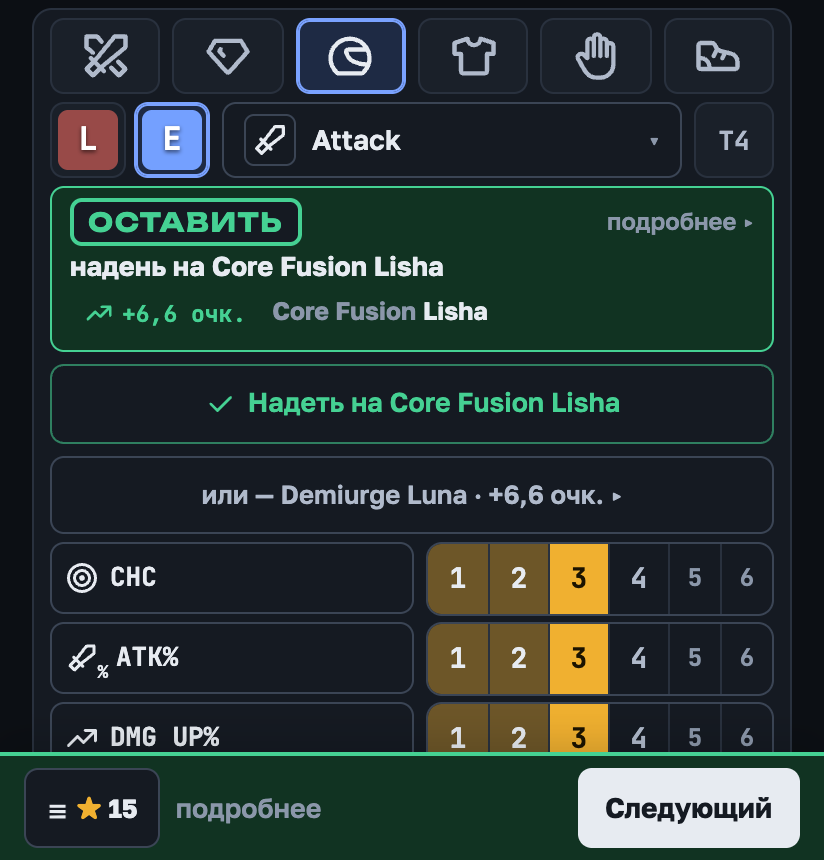
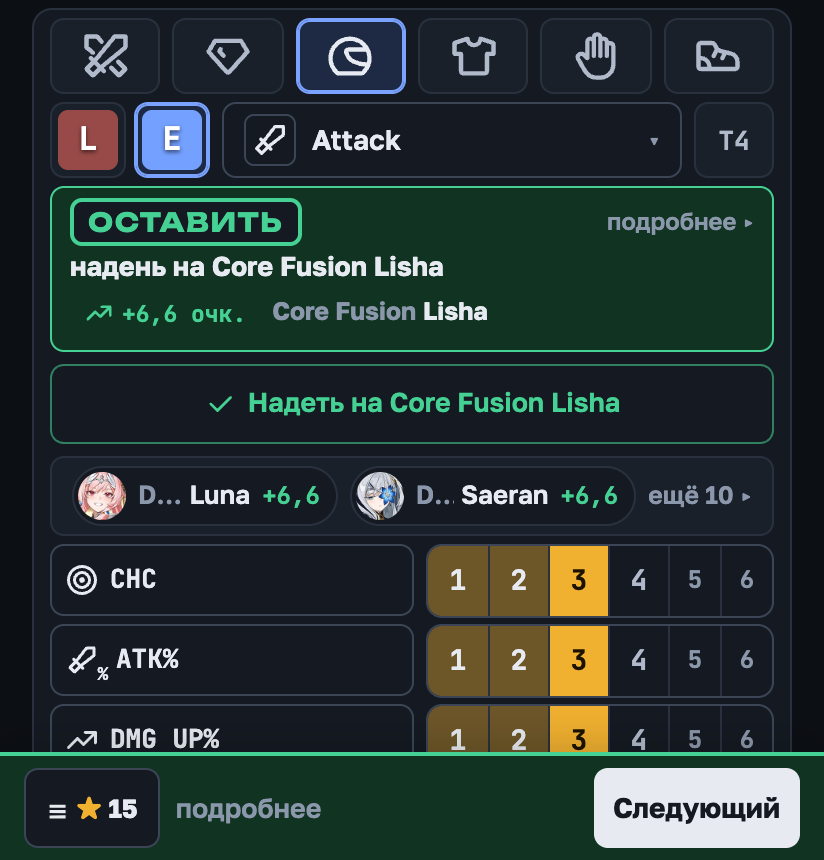
Help and Wiki: the hero list and «Надеть в игре» (0230)
In-app Help and Wiki (Экипировка / Equipment, Как считается вердикт /
How verdicts work) describe the list under the stamp («Кому даст») and
«Надеть в игре» instead of «Сейчас на персонажах», «Надеть на…», «Кому
надеть?» and the quiet line. Owner-approved texts (HELP-DRAFT.md).
Screenshots regenerated.

Tour: not needed — Help and Wiki texts only.

Changed region(s): [[0.0607, 0.5442, 0.9405, 0.8767], [0.5158, 0.6651, 0.9405, 0.9977]]

diff --git a/src/i18n/ru.ts b/src/i18n/ru.ts
@@ -712,15 +712,15 @@ export const ru = {
     helpChars: [
       'Серая звёздочка ☆ добавляет персонажа в ростер, золотая ★ — он уже там; с галочкой «только мои персонажи» («Ещё» → «Настройки») оценка учитывает только их. Список показывает «Мои» (все твои, с билдами и без), «Доодеть» (твои, у кого надето меньше 6 из 6); ничего не нажато — все с билдами (героя без билдов найдёшь по имени), повторное нажатие снимает выбор; стихия и класс — под кнопкой фильтра, выбранные видны чипами над списком. «Ещё» → «Резервная копия» — ростер и вещи одним кодом, для переноса на другое устройство; «Заменить» понимает и прежние коды ростера и экипировки. Вещи бывают только у персонажей ростера: «Надеть» добавляет в ростер, загрузка копии — всех, у кого есть вещи; убрать из ростера — в карточке персонажа: звёзды у имени → «Убрать из ростера»; если у него есть вещи, приложение спросит, убрать ли их. Без вещей он уходит сразу, а с ним — его звёзды, число крита, эфф из игры, уровень и закреплённый набор; «Вернуть» в сообщении вернёт всё. Core Fusion заменяет героя: отметишь Core Fusion Eternal — вещи Eternal перейдут к Core Fusion Eternal, а Eternal станет неактивным (в списке пара на прежнем месте: Core Fusion Eternal сразу за Eternal); звезда на Eternal вернёт всё назад.',
       'Нажми на персонажа — откроется его карточка. Звёздочка есть и в карточке, рядом с именем; стихия и класс — значками на портрете, «outerpedia ↗» открывает страницу персонажа на outerpedia. Три вкладки: «Надето» — что на нём в игре; «Пул» — остальные его вещи и зачем каждая; «Билды» — справка outerpedia, только посмотреть.',
-      '**Экипировка** — вещи у персонажа. Оценка сама берёт из них лучшее: статы и сеты из билдов outerpedia считаются вместе, билд выбирать не нужно. Вещь к персонажу кладёт «Надеть» — в подробностях вердикта, на телефоне ещё и кнопка под карточкой: вещь записывается надетой в своём слоте. Вердикт предлагает её тем, кому она даст больше всего очков. Другого героя найди по имени в «Надеть на…» или нажми «Оценить вещь для Caren»: там «Надеть» есть у любой вещи, чтобы записать, что носит герой. «Надеть» убирает из вещей героя то, что ему больше не нужно, и говорит об этом. «Отложить для Caren» — записать вещь герою, не надевая: она остаётся в «Пуле» и участвует в следующих оценках. «Припаркована» в «Пуле» — вещь, снятая в обмене, которую пока некому надеть: обмен предложит её первой. Ввёл отложенную вещь ещё раз (те же статы в том же порядке) — вердикт скажет «Похоже, это …» и не даст другим ни «Надеть», ни «Отложить»; в игре таких две — «Это другой». Вещь персонажа правится только в сегментах, «T4» и 4-м сабстате у Epic: сделал Reforge или Breakthrough — нажми её на «Надето» или в «Пуле» и поправь. Transistone сменил стат — введи вещь заново и «Надеть», а эту — «Убрать у Caren». Enhance не отмечается: считаем, что вещь на +10. Бонус сета — по Breakthrough вещей: ×2 на T4, если хотя бы две вещи сета на T4; ×4 на T4 — если все четыре. Разобрал вещь или пустил на Breakthrough — «Убрать у Caren» в карточке вещи. Кого доодеть — «Доодеть» над списком (на телефоне ещё «Ещё» → «Доодеть · N»). «Поделиться» во вкладке «Надето» даёт ссылку: друг увидит, что на герое надето и какой набор закреплён, — только просмотр, у него ничего не изменится. Во время обучения резервной копии нет: на странице пример.',
+      '**Экипировка** — вещи у персонажа. Оценка сама берёт из них лучшее: статы и сеты из билдов outerpedia считаются вместе, билд выбирать не нужно. Вещь к персонажу кладёт «Надеть» — в списке героев под штампом, на телефоне ещё и кнопка под карточкой: вещь записывается надетой в своём слоте и попадает в «Надеть в игре» — в игре её надеваешь потом, а здесь отмечаешь, что сделал. Список показывает всех, кого вещь усилит хотя бы на 1 очко. Другого героя найди по имени под списком или нажми «Оценить вещь для Caren»: там «Надеть» есть у любой вещи, чтобы записать, что носит герой. «Надеть» убирает из вещей героя то, что ему больше не нужно, и говорит об этом. «Отложить для Caren» — записать вещь герою, не надевая: она остаётся в «Пуле» и участвует в следующих оценках. «Припаркована» в «Пуле» — вещь, снятая в обмене, которую пока некому надеть: обмен предложит её первой. Ввёл отложенную вещь ещё раз (те же статы в том же порядке) — вердикт скажет «Похоже, это …» и не даст другим ни «Надеть», ни «Отложить»; в игре таких две — «Это другой». Вещь персонажа правится только в сегментах, «T4» и 4-м сабстате у Epic: сделал Reforge или Breakthrough — нажми её на «Надето» или в «Пуле» и поправь. Transistone сменил стат — введи вещь заново и «Надеть», а эту — «Убрать у Caren». Enhance не отмечается: считаем, что вещь на +10. Бонус сета — по Breakthrough вещей: ×2 на T4, если хотя бы две вещи сета на T4; ×4 на T4 — если все четыре. Разобрал вещь или пустил на Breakthrough — «Убрать у Caren» в карточке вещи. Кого доодеть — «Доодеть» над списком (на телефоне ещё «Ещё» → «Доодеть · N»). «Поделиться» во вкладке «Надето» даёт ссылку: друг увидит, что на герое надето и какой набор закреплён, — только просмотр, у него ничего не изменится. Во время обучения резервной копии нет: на странице пример.',
       '**Надето** — рядом с заголовком очки надетого: вещи плюс сеты; у каждой вещи — её очки. Нажми на заголовок ▾ — откуда они: статы по слотам, сеты и пассивка оружия и аксессуара («рекомендовано», «временно», «нет в билдах»; пассивка — не очки: рекомендованное оружие встаёт раньше любых сабстатов). Под заголовком — цепочка статов героя в её порядке (первый — самый ценный) и сколько сегментов каждому стату дают надетые вещи: зелёный засчитан целиком, жёлтый (flat) — наполовину, бледнее — меньше сегментов, пунктир — ни одна вещь стат не даёт. У героя с двумя цепочками (разные билды) — обе, с именем билда; очки — по первой. Ниже каждый сет стоит отдельной строкой: справа — сколько он добавляет (очки его бонуса сверх очков вещей), под ним — его бонусы; если Breakthrough T4 у надетой брони добавит от 1 очка бонуса сета, бледная строка скажет, у каких вещей.',
       '**Крит: 45%** — под цепочкой у героев с CHC в цепочке: шанс крита героя с надетым — его свои 5% (+5% у Striker, +10% от Quirks, крит от звёзд) плюс вещи: main CHC аксессуара, сабстаты CHC, сет Critical Hit. Выше 100% крит в игре сгорает, поэтому ближе к числу героя (по умолчанию 100) он ценится меньше, а выше — не ценится вовсе; строка жёлтая с N − 15, красная с N. Нажми — шкала, «Герой · звёзды · вещи» и число: понизь его, если крит дают камни, талисман или команда. Так считают вердикт, «Отложить», «Переодеть», партия и обмен; в раскрытом заголовке — «Лишний крит −x».',
       '**Эфф** — у героев, которым нужен эфф против RES босса (дебаффы, которые босс может отразить). «≈» — оценка: приложение считает героя (уровень — героя, у звёзд, или по умолчанию; Ranger +50 — по Quirks), вещи и звёзды, но не видит EE, талисман и камни. Нажми строку и впиши эфф с экрана героя в игре — дальше приложение держит его само, а после смены вещей снова ставит «≈».',
       '**★★★★★☆ у имени** — звёзды героя, как в игре (плюсы не нужны); там же — «Убрать из ростера». Некоторым героям звёзды дают крит — он входит в «Крит» (Poolside Trickster Regina с ★5: +65%). Пока не указаны — у героя его начальные звёзды (★1–★3, как в игре); меньше поставить нельзя. «Команда» берёт звёзды отсюда; там можно только примерить больше. С Core Fusion звёзды переходят вместе с вещами. Там же — уровень героя, 100 или 120: от него зависят база для сравнения flat и %, бонусы сетов и эфф. Не отмечен — берётся «Уровень по умолчанию» из настроек.',
       '**Пул и «Переодеть»** — «Пул» показывает вещи героя, кроме надетых (они — на «Надето»), и справа причину, почему вещь держится: «лучший {сет}» (в том числе «на T4»; только у закреплённого набора), «по статам», «в запасе»; остальное — «больше не нужна»: разбери в игре и убери кнопкой «Убрать у Caren» (молча приложение ничего не удаляет). На «Надето» кнопка «Переодеть: +N очк.» появляется, когда из своих вещей героя можно собрать на 1+ очко лучше надетого; Legendary на место Epic — уже при равных очках (или с рекомендованным оружием или аксессуаром — «Переодеть: пассивка лучше»): шторка покажет итог, что включится и выключится, и «Надеть» у каждой вещи или «Надеть все». Под слотами — «Что искать»: наборы из билдов, где у героя 1–3 вещи из 4, каких слотов не хватает и сколько очков стоит собрать набор (набор, который ничего не добавит или обойдётся дороже надетого, не показывается; набор закреплённого героя остаётся). В игре всё делаешь сам — приложение только считает.',
       '**Закрепить набор** — по умолчанию герой оценивается «По статам»: цепочка его билдов и все наборы из них вместе. Нужен конкретный набор — «Закрепить набор» в карточке: вещи других сетов с хорошими статами будут отбрасываться (надетое остаётся, пока слот не займёт вещь набора). Сменить или снять — та же кнопка, «По статам — не закреплять».',
-      '**Оценить вещь для Caren** — в карточке персонажа: над формой «Только для · Caren». Строка карточки, «Сейчас на персонажах» и «Надеть» — только про Caren; «Надеть» есть и у вещи без пользы — записать, что носит герой; штамп — общий. «Следующий» режим не сбрасывает, ✕ — снова для всех. «Ввести» у пустого слота ставит на форму слот, «Примерить замену» у вещи — слот и сет вещи; «Заменить» уберёт именно её, лучше новая или хуже.',
-      '**Сейчас на персонажах** — в подробностях вердикта, строка на героя ростера, кому вещь даст больше всего: «+N очк.» — на сколько он станет сильнее с ней, «включится / выключится» — бонусы сетов. «Заменить» вместо «Надеть» — в слоте уже есть вещь. Штамп говорит про саму вещь. Слабая вещь, которая лучше надетой, остаётся «Фоддер» или «Разобрать» — тихая строка скажет, кому она дала бы больше и что искать. Резервная копия — код OGC-GEAR9 в «Ещё» → «Резервная копия»: вещи, надетое, припаркованное, закреплённые наборы, число крита, эфф из игры, звёзды и уровень героя; прежние коды читаются.',
+      '**Оценить вещь для Caren** — в карточке персонажа: над формой «Только для · Caren». Строка карточки, список героев и «Надеть» — только про Caren; «Надеть» есть и у вещи без пользы — записать, что носит герой; штамп — общий. «Следующий» режим не сбрасывает, ✕ — снова для всех. «Ввести» у пустого слота ставит на форму слот, «Примерить замену» у вещи — слот и сет вещи; «Заменить» уберёт именно её, лучше новая или хуже.',
+      '**Кому даст** — список под штампом (на телефоне — строка героев под карточкой, нажми — откроется весь список): все, кого вещь усилит хотя бы на 1 очко. «Вместо надетого» — в слоте уже есть вещь («Заменить», «вместо N очк.»), «В пустой слот» — «Надеть», «Отложить» — «держи» или «запас». В группе три строки, остальных открывает «ещё N». ★ — кого советует вердикт. «+N» — на сколько герой станет сильнее, «включит / выключит» — бонусы сетов. «Подробно» (на компьютере) — что вещь даёт и что было. Штамп говорит про саму вещь. **Надеть в игре** — что записано «Надеть» и ещё не надето в игре, по героям: слот, вещь и её сабстаты как в игре, а под ними — что сделать со снятым («под замок», «в Breakthrough»). Надел — нажми строку, она уйдёт («Вернуть» рядом); на компьютере список под формой, на телефоне — «Ещё» → «Надеть в игре», счётчик на ☰. Резервная копия — код OGC-GEAR9 в «Ещё» → «Резервная копия»: вещи, надетое, припаркованное, закреплённые наборы, число крита, эфф из игры, звёзды и уровень героя; прежние коды читаются.',
     ],
     helpTrade: 'Обмен вещами',
     helpTradeItems: [

diff --git a/src/i18n/en.ts b/src/i18n/en.ts
@@ -607,15 +607,15 @@ export const en: Texts = {
     helpChars: [
       'The grey star ☆ adds a character to your roster, the gold ★ means they’re already in it; with "only my characters" checked (More → Settings), the evaluation considers only them. The list shows "Mine" (all yours, with builds and without), "To dress" (yours with fewer than 6 of 6 equipped); with neither pressed — everyone with builds (a hero without builds is found by name), pressing again unpresses; element and class are under the filter button, the chosen ones show as chips above the list. More → Backup is the roster and gear in one code, to move to another device; "Replace" also reads the older roster and gear codes. Only roster characters have gear: "Equip" adds a character to the roster, loading a backup adds everyone who has gear, and to remove someone from the roster open their card: the stars by the name → "Remove from roster"; if they have gear, the app asks whether to remove it. Without gear they leave at once, and with them the hero’s stars, crit number, in-game EFF, level and pinned set; "Undo" in the message brings them all back. Core Fusion replaces the hero: star Core Fusion Eternal and Eternal\'s gear moves to Core Fusion Eternal, while Eternal turns inactive (the pair keeps its place in the list: Core Fusion Eternal right after Eternal); the star on Eternal switches back.',
       'Tap a character to open their card. The star is on the card too, next to the name; element and class are icons on the portrait, and "outerpedia ↗" opens the character\'s page on outerpedia. Three tabs: "Worn" — what they wear in the game; "Pool" — the rest of their pieces and why each is kept; "Builds" — the outerpedia reference, view only.',
-      '**Equipment** — pieces kept for a character. The evaluation picks the best of them itself: stats and the sets from outerpedia builds count together, no build to pick. A piece reaches a character with "Equip" — in the verdict details, on a phone also the button under the card: the piece is recorded as worn in its slot. A verdict offers it to those who gain the most points. For another hero search by name in "Equip on…" or tap "Rate a piece for Caren": there "Equip" is on every piece, to record what the hero wears. "Equip" removes from the hero\'s gear what they no longer need, and says so. "Set aside for Caren" records a piece for the hero without wearing it: it stays in the Pool and counts in later evaluations. "Parked" in the Pool — a piece taken off in a trade that nobody can wear yet: a trade offers it first. Rated a set-aside piece again (same stats in the same order)? The verdict says "Looks like the …" and offers no "Equip" or "Set aside" to anyone else; two such pieces in the game — "It\'s a different one". A character\'s piece can be edited only in segments, "T4" and an Epic\'s 4th substat: did a Reforge or Breakthrough? Tap it on Worn or in the Pool and fix it. Transistone changed a stat? Enter the piece again and "Equip", and "Remove from Caren" this one. Enhance isn\'t tracked: pieces are assumed to be +10. Set bonuses follow the pieces\' Breakthrough: ×2 at T4 when at least two pieces of the set are T4; ×4 at T4 when all four are. Dismantled a piece or used it for Breakthrough? "Remove from Caren" on the piece card. Who still needs gear — "To dress" above the list (on a phone also More → "To dress · N"). "Share" on the Worn tab gives a link: a friend sees what the hero wears and which set is pinned — view only, nothing changes on their side. During a tutorial there\'s no backup: the page shows an example.',
+      '**Equipment** — pieces kept for a character. The evaluation picks the best of them itself: stats and the sets from outerpedia builds count together, no build to pick. A piece reaches a character with "Equip" — in the hero list under the stamp, on a phone also the button under the card: the piece is recorded as worn in its slot and added to "Equip in game" — you put it on in the game later, and tick it off here. The list shows everyone the piece makes at least 1 point stronger. For another hero search by name under the list or tap "Rate a piece for Caren": there "Equip" is on every piece, to record what the hero wears. "Equip" removes from the hero\'s gear what they no longer need, and says so. "Set aside for Caren" records a piece for the hero without wearing it: it stays in the Pool and counts in later evaluations. "Parked" in the Pool — a piece taken off in a trade that nobody can wear yet: a trade offers it first. Rated a set-aside piece again (same stats in the same order)? The verdict says "Looks like the …" and offers no "Equip" or "Set aside" to anyone else; two such pieces in the game — "It\'s a different one". A character\'s piece can be edited only in segments, "T4" and an Epic\'s 4th substat: did a Reforge or Breakthrough? Tap it on Worn or in the Pool and fix it. Transistone changed a stat? Enter the piece again and "Equip", and "Remove from Caren" this one. Enhance isn\'t tracked: pieces are assumed to be +10. Set bonuses follow the pieces\' Breakthrough: ×2 at T4 when at least two pieces of the set are T4; ×4 at T4 when all four are. Dismantled a piece or used it for Breakthrough? "Remove from Caren" on the piece card. Who still needs gear — "To dress" above the list (on a phone also More → "To dress · N"). "Share" on the Worn tab gives a link: a friend sees what the hero wears and which set is pinned — view only, nothing changes on their side. During a tutorial there\'s no backup: the page shows an example.',
       '**Worn** — next to the heading, the points of what is worn: pieces plus sets; each piece shows its points. Tap the heading ▾ — where they come from: stats per slot, sets, and the weapon and accessory passive ("recommended", "stopgap", "not in builds"; the passive isn\'t in points: a recommended weapon goes in before any substats). Under the heading, the hero\'s stat chain in its order (first — the most valuable) and how many segments the worn pieces give each stat: green counts in full, yellow (flat) at half, paler — fewer segments, dashed — no piece gives the stat. A hero with two chains (different builds) shows both, named by build; points follow the first. Below, each set stands on its own line with what it adds on the right (the points of its bonus on top of the pieces\') and its bonuses under it; when Breakthrough T4 on worn armor would add 1+ points of set bonus, a faint line says on which pieces.',
       '**Crit: 45%** — under the chain for heroes with CHC in it: the hero\'s crit chance with what\'s worn — their own 5% (+5% for Strikers, +10% from Quirks, crit from stars) plus gear: the accessory\'s CHC main, CHC substats, the Critical Hit set. Above 100% the game wastes crit, so near the hero\'s number (100 by default) it counts less, above it not at all; the line turns amber from N − 15 and red from N. Tap it — the bar, "Hero · stars · gear" and the number: lower it if gems, the talisman or the team add crit. The verdict, "Set aside", "Re-dress", the batch and trade count it this way; the opened heading shows "Extra crit −x".',
       '**EFF** — for heroes who need EFF against a boss’s RES (debuffs the boss can resist). «≈» = estimate: the app counts the hero (the hero’s level, by the stars, or the default; Ranger +50 by Quirks), gear and stars, but can’t see the EE, talisman or gems. Tap the line and type EFF from the hero’s screen in the game — the app keeps it from then on and shows «≈» again after a gear change.',
       '**★★★★★☆ by the name** — the hero’s stars, as in the game (no pluses needed); "Remove from roster" is there too. Stars give some heroes crit — it counts in Crit (Poolside Trickster Regina at ★5: +65%). Until you set them, the hero has their starting stars (★1–★3, as in the game); fewer can’t be picked. Team takes the stars from here; there you can only try more. With Core Fusion the stars move along with the pieces. The hero’s level is there too, 100 or 120: it sets the base for flat vs %, set bonuses and EFF. Not marked — the "Default level" from the settings.',
       '**Pool and "Re-dress"** — the Pool lists the hero\'s pieces except the worn ones (those are on Worn) with the reason each is kept: "best {set}" (also "at T4"; only for a pinned set), "by stats", "reserve"; everything else is "no longer needed": dismantle it in the game and remove it with "Remove from Caren" (the app never deletes silently). On Worn, the "Re-dress: +N pts" button appears when the hero\'s own pieces can make a layout 1+ point better than what\'s worn; a Legendary in place of an Epic — already at equal points (or with a recommended weapon or accessory — "Re-dress: better passive"): the sheet shows the result, what turns on and off, and "Wear" per piece or "Wear all N". Under the slots — "What to look for": sets from the builds where the hero has 1–3 of 4 pieces, which slots are missing and what completing the set is worth in points (a set that would add nothing, or cost the one already worn, isn\'t listed; a pinned hero\'s set stays). In the game you do it yourself — the app only calculates.',
       '**Pin a set** — by default a hero is evaluated "By stats": the chain of their builds and all the sets from them together. Need a specific set? "Pin a set" on the card: pieces of other sets with good stats will be dropped (what\'s worn stays until a piece of the set takes the slot). To change or remove — the same button, "By stats — not pinned".',
-      '**Rate a piece for Caren** — on the character card: above the form, "Only for · Caren". The card line, "On your characters now" and "Equip" are only about Caren; "Equip" is there even for a useless piece, to record what the hero wears; the stamp is shared. "Next" keeps the mode, ✕ — everyone again. "Enter" on an empty slot puts the slot on the form, "Try a replacement" on a piece — its slot and set; "Replace" removes exactly that piece, whether the new one is better or worse.',
-      '**On your characters now** — in the verdict details, a row per roster hero who gains the most: "+N pts" — how much stronger they get with the piece, "turns on / turns off" — set bonuses. "Replace" instead of "Equip" — the slot already has a piece. The stamp is about the piece itself. A weak piece that beats what\'s worn stays "Fodder" or "Dismantle" — a quiet line says whom it would help most and what to look for. Backup — the OGC-GEAR9 code in More → Backup: pieces, what’s worn, what’s parked, pinned sets, each hero’s crit number, in-game EFF, stars and level; older codes still read.',
+      '**Rate a piece for Caren** — on the character card: above the form, "Only for · Caren". The card line, the hero list and "Equip" are only about Caren; "Equip" is there even for a useless piece, to record what the hero wears; the stamp is shared. "Next" keeps the mode, ✕ — everyone again. "Enter" on an empty slot puts the slot on the form, "Try a replacement" on a piece — its slot and set; "Replace" removes exactly that piece, whether the new one is better or worse.',
+      '**Who it helps** — the list under the stamp (on a phone: the line of heroes under the card, tap it for the whole list): everyone the piece makes at least 1 point stronger. "Instead of worn" — the slot has a piece ("Replace", "instead of N pts"), "Into an empty slot" — "Equip", "Set aside" — "keep" or "reserve". A group shows three rows, "N more" opens the rest. ★ is who the verdict picks. "+N" — how much stronger the hero gets, "turns on / turns off" — set bonuses. "Detailed" (on a computer) shows what the piece gives and what was there. The stamp is about the piece itself. **Equip in game** — what "Equip" recorded and isn\'t on the hero in the game yet, hero by hero: the slot, the piece and its substats as the game shows them, and what to do with the piece taken off ("lock it", "feed it to Breakthrough"). Done — tap the line, it goes ("Undo" appears); on a computer the list is under the form, on a phone — More → "Equip in game", with a count on ☰. Backup — the OGC-GEAR9 code in More → Backup: pieces, what’s worn, what’s parked, pinned sets, each hero’s crit number, in-game EFF, stars and level; older codes still read.',
     ],
     helpTrade: 'Trade gear',
     helpTradeItems: [

diff --git a/wiki/Equipment.md b/wiki/Equipment.md
@@ -40,15 +40,10 @@ needed for its Breakthrough. **"T?"** shows on old records with no Breakthrough 
 **You rate a new piece** — from the inventory: a fresh drop or one taken off a hero. The piece is compared as it is — by
 the segments that are lit and "T4": Reforges still ahead don't count.
 
-Only from a verdict: enter a piece as usual, open the details and press **"Equip on…"** — or the button under the card
-on a phone. **"Equip" records the piece as worn in its slot.** A verdict offers it to the heroes who gain the most
-points. Another hero — search by name in "Equip on whom?" or tap "Rate a piece for Caren": there "Equip" is on every
-piece, even a useless one — that's how you record what the hero wears in the game. "Equip on whom?" has a row per
-roster hero saying what happens: "Equip — +4.2 pts", "Replace helmet — +1.8 pts · turns on Speed ×2". Name search covers
-all characters, not just the roster — except those replaced by Core Fusion.
+Only from a verdict: enter a piece as usual and press **"Equip"** on a hero in the list under the stamp — or the button under the card on a phone. **"Equip" records the piece as worn in its slot** and adds it to **"Equip in game"** (below). The list is every roster hero the piece makes at least 1 point stronger, in three groups: "Instead of worn", "Into an empty slot" and "Set aside"; each shows three rows, biggest gain first, and "N more ▸" opens the rest. ★ is who the verdict picks. A row has "+4.2", what changes ("instead of 2.2 pts", "turns on Speed ×2") and a button — "Equip", "Replace" or "Set aside"; "Detailed" (on a computer) adds what the piece gives the hero and what was there. Another hero — search by name under the list, all characters, not just the roster, except those replaced by Core Fusion — or tap "Rate a piece for Caren": there "Equip" is on every piece, even a useless one — that's how you record what the hero wears in the game.
 
-Under the verdict card: **"Equip on Caren"** or **"Replace Caren's helmet"**, and **"or — Rin"** when someone else
-gains too. If other pieces of the hero's layout change with it (the new piece completes a set), the verdict names
+Under the verdict card: **"Equip on Caren"** or **"Replace Caren's helmet"**, and **the line of heroes** ("Rin +3.1 · 4 more ▸")
+when someone else gains too: tap it for the whole list. If other pieces of the hero's layout change with it (the new piece completes a set), the verdict names
 them: "Also put on from Caren's pieces: …".
 
 **"Equip" records the piece as worn and removes what the hero no longer needs** — a piece the new layout pushed out
@@ -78,7 +73,7 @@ A check for one character. It starts from the character card: **"Rate a piece fo
 tab, **"Enter"** on an empty slot of the Worn tab (the slot goes onto the form), **"Try a replacement"** on a piece
 (the slot and set go onto the form) — they turn on the same mode.
 
-Above the form — the **"Only for · Caren ✕"** strip. While it's there: the card line, "On your characters now" and
+Above the form — the **"Only for · Caren ✕"** strip. While it's there: the card line, the hero list and
 "Equip" are only about Caren; the stamp is shared, over the whole roster. "Next" keeps the mode; ✕ — everyone again.
 The title speaks about Caren: "equip on Caren", "better than on Caren", "keep for Caren", "Caren already has as good" or
 "weak for Caren" — and the "Equip on Caren" button stays even on a useless piece: tap it if Caren wears it in the game. If the slot already has a worn piece, it says "Replace Caren's
@@ -208,20 +203,35 @@ slot. A pinned hero's order in a trade is one: the pin ([Trading gear](Trading-g
 set with the same chain stays, the pin moves by itself; if it drops the set, the app unpins it and tells you.
 Removing the hero from the roster unpins it (the message has Undo).
 
-## "On your characters now" in the verdict
+## "Who it helps": the hero list under the stamp
 
-A row per roster hero who gains from the piece — the biggest gain first, up to three heroes.
+Every roster hero the piece makes at least 1 point stronger, plus those the verdict offers "Set aside". Three groups — "Instead of
+worn", "Into an empty slot", "Set aside"; the group with the ★ (the verdict's pick) comes first. A group shows its three biggest
+gains, "N more ▸" opens the rest.
 
-- **+N pts** — how much stronger the hero gets with the piece; **turns on / turns off** — a set bonus;
-- **Equip** / **Replace** — as under the card; "Replace" when the slot already has a worn piece;
-- for a weapon or accessory the **passive matters more than substats**: recommended against not recommended is better,
-  stopgap against recommended is worse (rank decides before points).
+- **+N** — how much stronger the hero gets with the piece; **instead of N pts** — what is worn now; **turns on / turns off** — a set
+  bonus; in "Set aside" **keep** or **reserve** instead of a number;
+- **Equip** / **Replace** / **Set aside** — the button on the row;
+- **Detailed** (on a computer; on a phone tap the row) — what the piece gives the hero: substats green if they count, yellow half,
+  grey if not; and what was in the slot;
+- for a weapon or accessory the **passive matters more than substats**: recommended against not recommended is better, stopgap
+  against recommended is worse (rank decides before points).
 
-A piece that is **weak** for a hero but would be better than what's worn is never offered to wear. A quiet line says
-whom it would help most and what to look for: "Caren has no helmet — this one is weak; a good one has ATK and CHC."
-Equipping it anyway is your call ("Rate a piece for Caren" → "Equip").
+The stamp is the app's advice; the list is what else you could do. A weak piece that beats what's worn stays "Fodder" or
+"Dismantle", but a hero it makes at least 1 point stronger is still in the list with a button — equipping it is your call.
 
-### The stamp
+## "Equip in game"
+
+"Equip" records the piece at once, and in the game you put it on later — this is what's left, hero by hero. A line is the slot, the
+piece and its substats as the game shows them; under it, when needed: "Taken off — lock it" (the old piece stays as the hero's
+reserve), "Taken off — feed it to this one's Breakthrough" (an old Epic is the new piece's material), "Breakthrough for this one —
+feed: Aer's reserve (unlock it)". Done in the game — tap the line: it goes, "Undo" brings it back. A line also goes by itself when
+the app no longer has the piece worn on that hero (a trade, a re-dress, "Remove from…"). A new "Equip" on the same slot replaces
+the line, and the earlier piece leaves the app — it is in your inventory, rate it again. The list is under the form (on a phone —
+More → "Equip in game", a count on ☰); with nothing left it isn't shown. "Set aside" and "Enter" write nothing there: you lock in the game at once. Entered the same piece again — the verdict recognises
+it ("Looks like the … promised to … in "Equip in game"") and gives no buttons; "It's a different one" if it really is a second copy.
+
+## The stamp
 
 The stamp is always about **the piece being rated**:
 
@@ -257,8 +267,8 @@ Epsilon.
   Eternal?": **all of Eternal's gear moves to Core Fusion Eternal**, along with what's marked worn and its stars, and Eternal turns
   inactive. The same window comes up for "Equip on Core Fusion Eternal" and "Rate a piece for Core Fusion Eternal".
 - **Inactive Eternal** keeps its place in the list, Core Fusion Eternal right after it (whichever of the pair is in the
-  roster), marked "replaced by Core Fusion Eternal": the verdict doesn't consider Eternal, and Eternal isn't in "Equip
-  on whom?" or in rating for a character.
+  roster), marked "replaced by Core Fusion Eternal": the verdict doesn't consider Eternal, and Eternal isn't in the hero
+  list or in rating for a character.
 - **The star on Eternal** — a window "Switch back to Eternal?": Core Fusion Eternal leaves the roster, Core Fusion
   Eternal's gear moves to Eternal.
 - After "Yes" — a message with "Undo"; "Cancel" changes nothing. The stars and the crit number go with the pieces; the pinned set is

diff --git a/wiki/Как-считается-вердикт.md b/wiki/Как-считается-вердикт.md
@@ -59,7 +59,7 @@
   выше N — ничего (по умолчанию 100; число задаётся в карточке). Пример: при 80% крита шесть сегментов CHC на втором месте
   стоят 3,3 очка вместо 4,8, и CHC 2 + CHD 4 (4,2) выигрывает. Порог «годная» выше считает обычные очки
   ([Экипировка](Экипировка#надето)).
-- Дальше — исход по героям: «Надеть», «Оставить для…», материал, «Спорно», «Разобрать» ([Экипировка](Экипировка#штамп)).
+- Дальше — исход по героям: «Надеть», «Оставить для…», материал, «Спорно», «Разобрать» ([Экипировка](Экипировка#штамп)); под штампом — список героев, кому вещь даст хотя бы 1 очко ([Экипировка](Экипировка#кому-даст-список-героев-под-штампом)).
 
 ## Flat ATK/DEF/HP против %
 

diff --git a/wiki/How-verdicts-work.md b/wiki/How-verdicts-work.md
@@ -62,7 +62,7 @@ With a roster every hero is looked at separately, and the verdict depends not on
   worth less, and nothing above N (100 by default; set it on the card). Example: at 80% crit six CHC segments in second
   place are worth 3.3 points instead of 4.8, so CHC 2 + CHD 4 (4.2) wins. The "good piece" bar above still counts plain
   points ([Equipment](Equipment#worn)).
-- Then comes the outcome per hero: "Equip", "Keep for…", material, "Maybe", "Dismantle" ([Equipment](Equipment#the-stamp)).
+- Then comes the outcome per hero: "Equip", "Keep for…", material, "Maybe", "Dismantle" ([Equipment](Equipment#the-stamp)); under the stamp, the list of heroes it gives at least 1 point ([Equipment](Equipment#who-it-helps-the-hero-list-under-the-stamp)).
 
 ## Flat ATK/DEF/HP vs %
 
